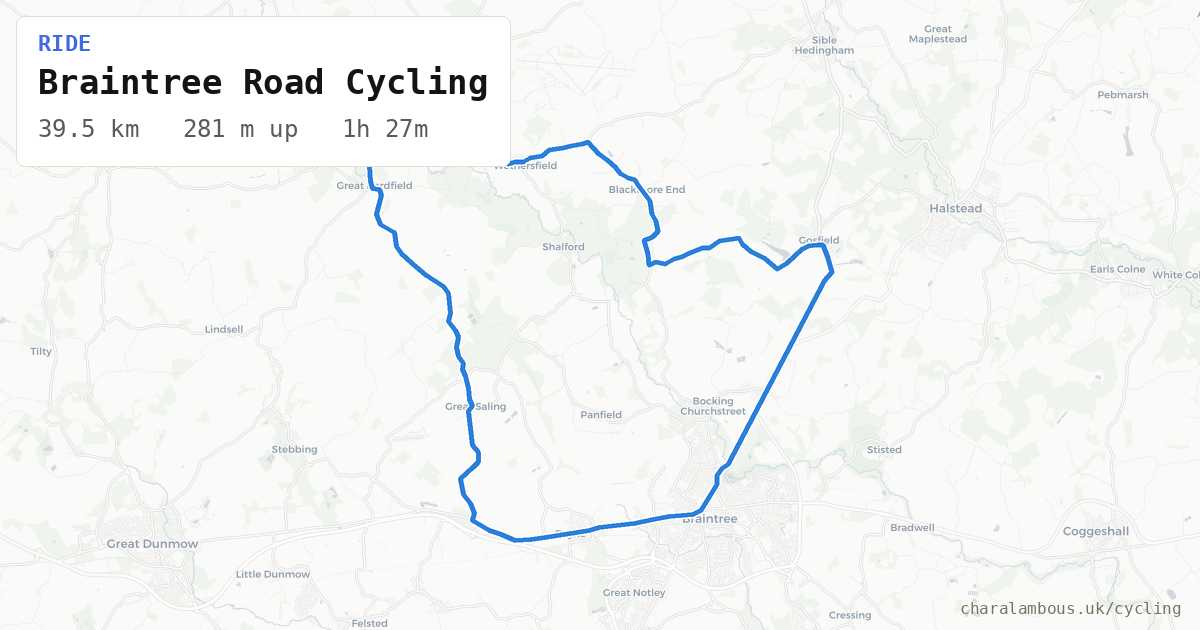
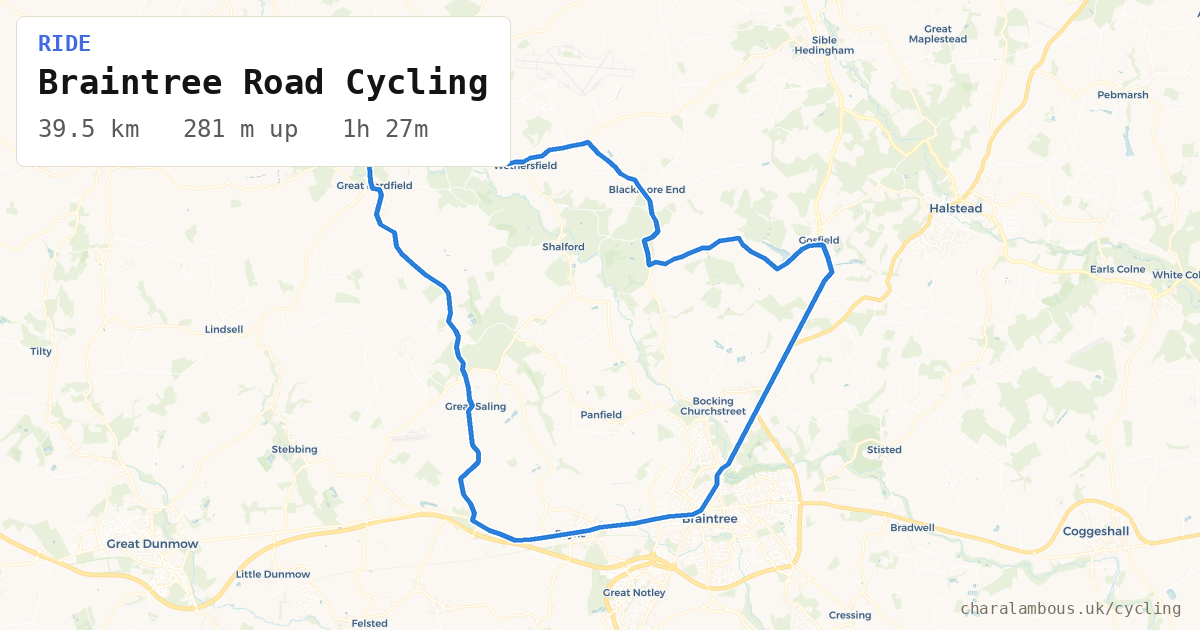
OG card: use Voyager basemap so roads are visible and the route reads as on-road (light_all was too faint)

diff --git a/scripts/garmin-sync/og_card.py b/scripts/garmin-sync/og_card.py
@@ -14,7 +14,9 @@ import matplotlib.font_manager as fm
 
 W, H = 1200, 630
 FTP = 220
-TILE_URL = "https://a.basemaps.cartocdn.com/light_all/{z}/{x}/{y}.png"
+# Voyager (not light_all): its roads are clearly visible, so the route reads as
+# following real roads rather than floating over the near-white light basemap.
+TILE_URL = "https://a.basemaps.cartocdn.com/rastertiles/voyager/{z}/{x}/{y}.png"
 BLUE = "#2b7fd9"
 # zone fill (Zwift-style, translucent) and the power line
 ZBOUNDS = [0.55, 0.75, 0.90, 1.05]
